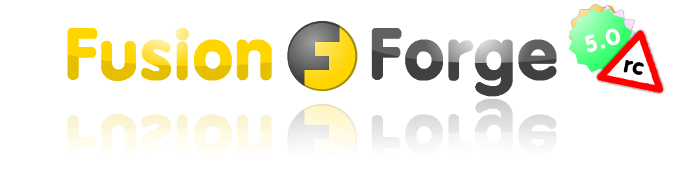
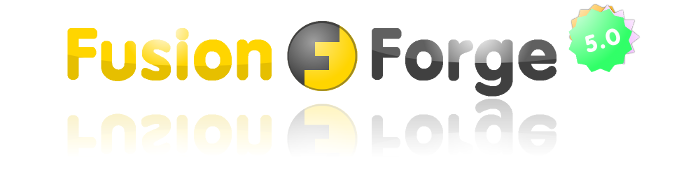
Merged from 5.0: version numbers
git-svn-id: svn+ssh://scm.fusionforge.org/srv/svn/fusionforge/trunk@9245 9d84d37e-dcb1-4aad-b103-6f3d92f53bf6

Changed region(s): [[0.84, 0.1714, 0.96, 0.5429]]

diff --git a/gforge/common/include/FusionForge.class.php b/gforge/common/include/FusionForge.class.php
@@ -36,7 +36,7 @@ class FusionForge extends Error {
 		$this->Error();
 
 		$this->software_name = 'FusionForge' ;
-		$this->software_version = '5.0rc2' ;
+		$this->software_version = '5.0' ;
 
 		return true;
 	}
